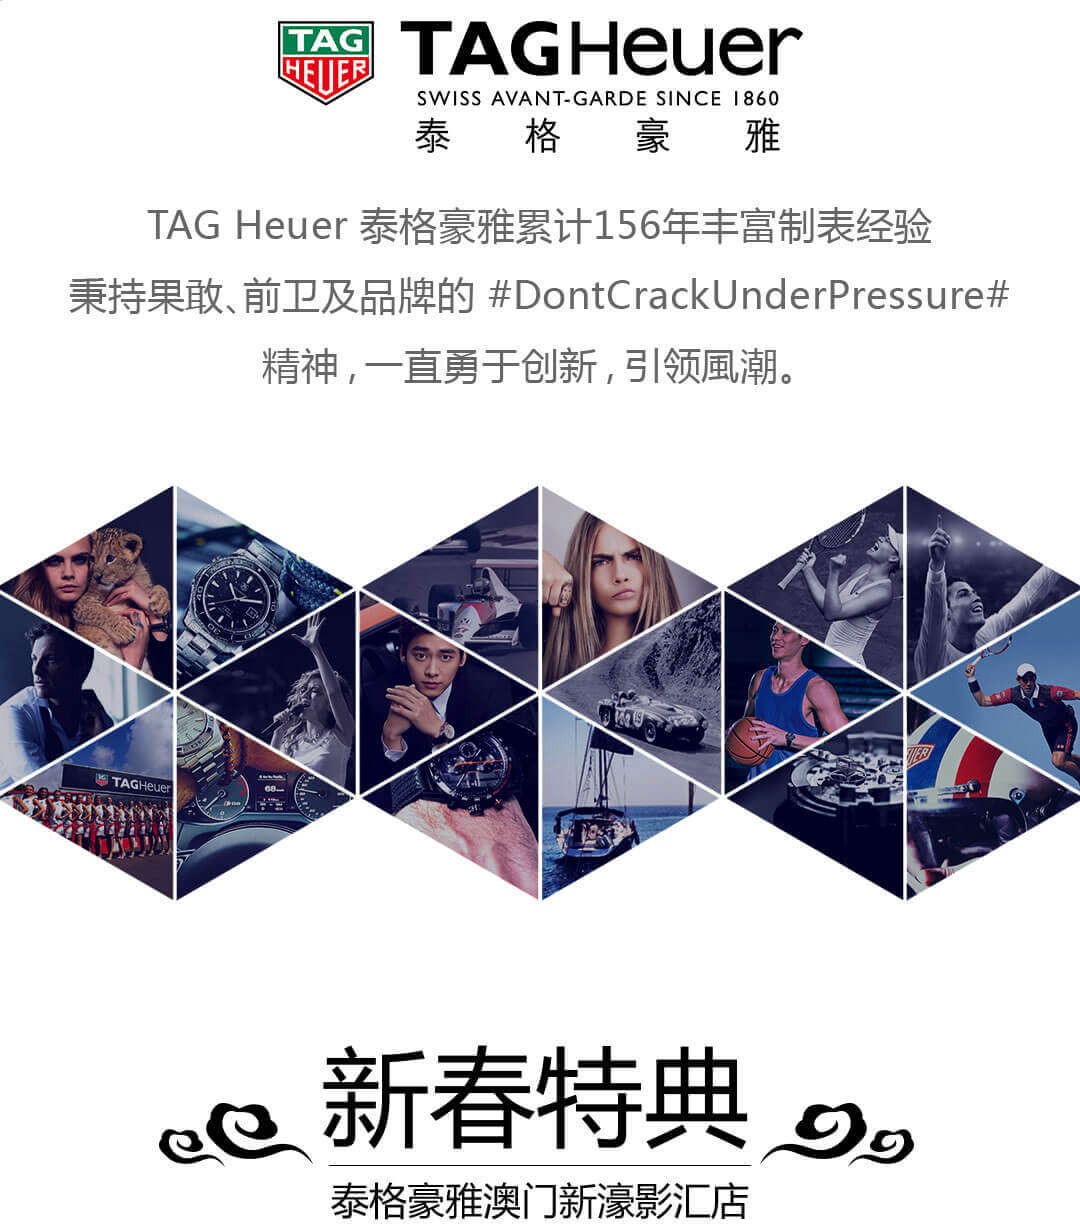
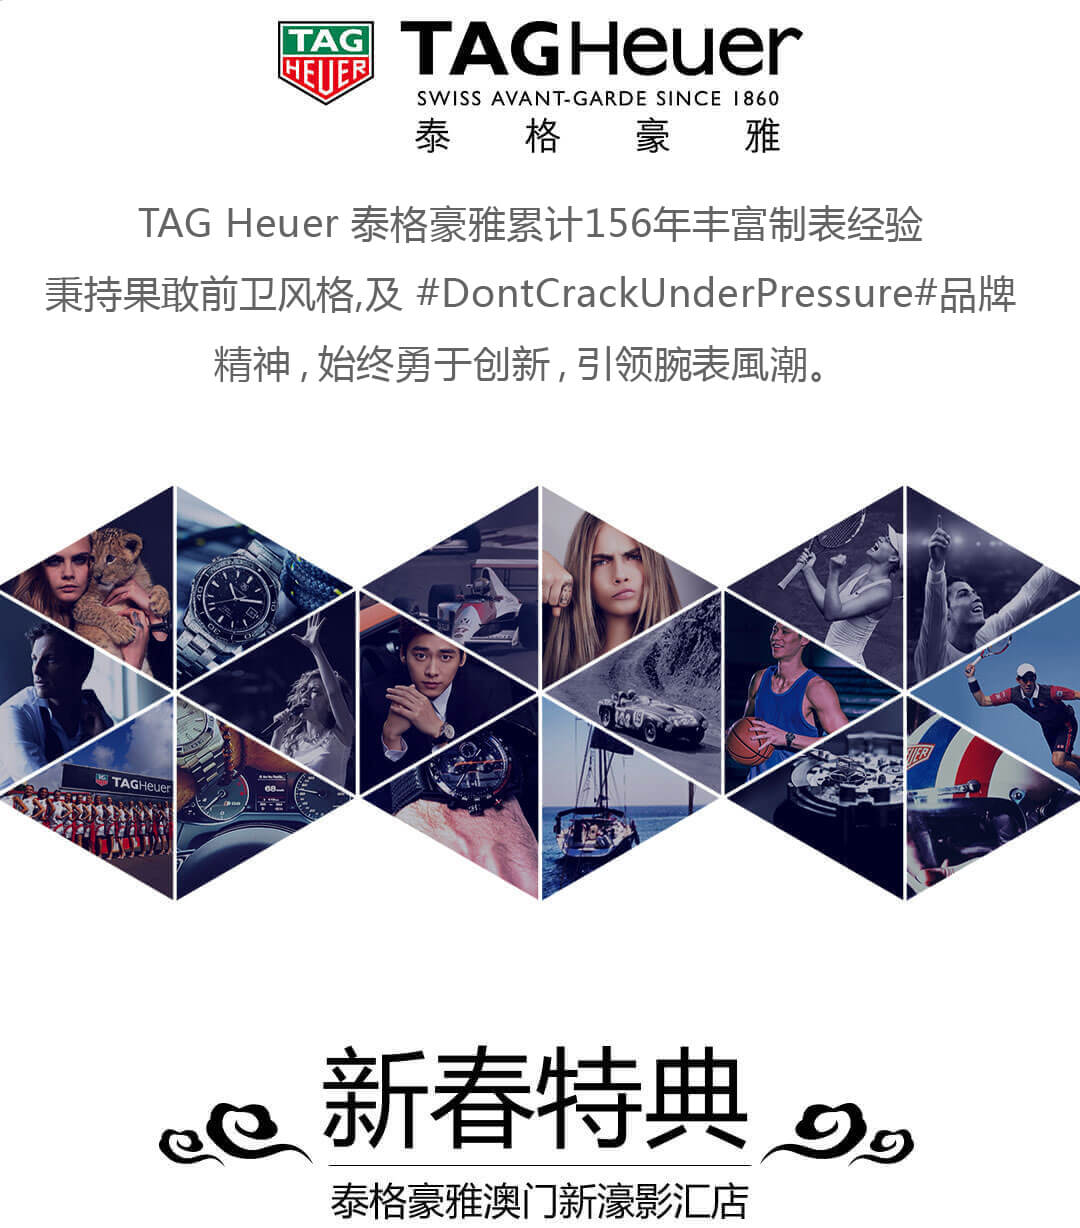
change the copy

Changed region(s): [[0.0306, 0.1547, 0.9472, 0.3094]]

diff --git a/css/screen.css b/css/screen.css
@@ -1,1 +1,1 @@
-a,abbr,acronym,address,applet,article,aside,audio,b,big,blockquote,body,canvas,caption,center,cite,code,dd,del,details,dfn,div,dl,dt,em,embed,fieldset,figcaption,figure,footer,form,h1,h2,h3,h4,h5,h6,header,hgroup,html,i,iframe,img,ins,kbd,label,legend,li,mark,menu,nav,object,ol,output,p,pre,q,ruby,s,samp,section,small,span,strike,strong,sub,summary,sup,table,tbody,td,tfoot,th,thead,time,tr,tt,u,ul,var,video{margin:0;padding:0;border:0;font:inherit;font-size:100%;vertical-align:baseline}html{line-height:1;font-size:50px}ol,ul{list-style:none}table{border-collapse:collapse;border-spacing:0}caption,td,th{text-align:left;font-weight:400;vertical-align:middle}blockquote,q{quotes:none}blockquote:after,blockquote:before,q:after,q:before{content:"";content:none}a img{border:none}#container .content .tg__wrap .gonext:after,#container .content .tg__wrap .gonext:before{border-left:.25rem solid transparent;border-right:.25rem solid transparent;border-top:.3rem solid #000;content:'';display:block}article,aside,details,figcaption,figure,footer,header,hgroup,main,menu,nav,section,summary{display:block}body{-webkit-backface-visibility:hidden}#container{width:100%;overflow:hidden}#container .content{width:100%;overflow-y:scroll}#container .content .tg__wrap{width:100%;position:relative}#container .content .tg__wrap .gonext{position:fixed;bottom:1.5rem;left:50%;width:10px;height:10px;-webkit-animation:arrowtop 2s linear infinite;-moz-animation:arrowtop 2s linear infinite;animation:arrowtop 2s linear infinite}#container .content .tg__wrap .gonext:before{left:0;position:absolute;top:0}#container .content .tg__wrap .gonext:after{left:0;position:absolute;top:.3rem}@keyframes arrowtop{0%{opacity:1;-webkit-transform:translateY(-5px);-moz-transform:translateY(-5px);-ms-transform:translateY(-5px);-o-transform:translateY(-5px);transform:translateY(-5px)}50%{opacity:.1;-webkit-transform:translateY(5px);-moz-transform:translateY(5px);-ms-transform:translateY(5px);-o-transform:translateY(5px);transform:translateY(5px)}100%{opacity:0;-webkit-transform:translateY(-5px);-moz-transform:translateY(-5px);-ms-transform:translateY(-5px);-o-transform:translateY(-5px);transform:translateY(-5px)}}#container .content .tg__wrap.tg_item2{width:100%}#container .content .tg__wrap.tg_item2 ul{width:100%;height:100%;position:absolute;top:0;left:0}#container .content .tg__wrap.tg_item2 ul li{width:67.40741%;position:absolute;top:4%;left:10%}#container .content .tg__wrap.tg_item2 ul li .sun-img,#container .content .tg__wrap.tg_item2 ul li .sun-title{width:100%;position:absolute;top:0;left:0}#container .content .tg__wrap.tg_item2 ul li:nth-child(2){width:74.81481%;position:absolute;top:28%;left:auto;right:10%}#container .content .tg__wrap.tg_item2 ul li:nth-child(3){width:80.46296%;position:absolute;top:52%;left:10%}#container .content .tg__wrap.tg_item2 ul li:nth-child(4){width:79.72222%;position:absolute;top:75%;left:auto;right:10%}#container img{display:block;width:100%}.tg_item2{height:19.38rem}.tg_item3{height:27.89rem}.tg_item4{height:12.28rem}.tg_item5{height:30.39rem}.tg_item5 .watch{position:absolute;top:5%;left:0;z-index:2;width:55%}.tg_item5 .football{position:absolute;bottom:25%;right:0;width:93.33333%}.tg_item6{background:#000;height:10.31rem;margin-top:-2px}.tg_item6 .thanks{position:relative;z-index:-1;opacity:0;width:7.74rem;margin:0 auto;-moz-transition:opacity 1s;-o-transition:opacity 1s;-webkit-transition:opacity 1s;transition:opacity 1s}.tg_item6 #form-address{z-index:2;-moz-transition:opacity 1s;-o-transition:opacity 1s;-webkit-transition:opacity 1s;transition:opacity 1s}.tg_item6.done #form-address{opacity:0;z-index:-2}.tg_item6.done .thanks{opacity:1;display:block;z-index:2}#form-address{position:absolute;top:1rem;left:50%;-webkit-transform:translate(-50%);-moz-transform:translate(-50%);-ms-transform:translate(-50%);-o-transform:translate(-50%);transform:translate(-50%);width:79.62963%}.input-box{padding-bottom:.6rem;position:relative}.input-box .error{position:absolute;bottom:.1rem;color:rgba(252,80,90,.6);font-size:.34rem}.input-box input[type=text],.input-box input[type=number],.input-box select{font-size:.44rem;color:#fff;border:1px solid #e6e6e6;padding:.3rem;background:0 0;-webkit-appearance:none;border-radius:0;-ms-border-radius:0;-moz-border-radius:0;-o-border-radius:0;-webkit-border-radius:0;width:100%;box-sizing:border-box;text-align:left;text-indent:1rem}.input-box select{color:rgba(255,255,255,.3)}.input-box select.hasvalue{color:#fff}.input-box select.input-province{float:left;width:46%}.input-box select.input-city{float:right;width:46%}.input-box label{position:absolute;width:.53rem;height:.53rem;background:url(../img/icon-sprite.png) no-repeat;background-size:100%;top:.4rem;left:.4rem}.input-box.input-box-name label{background-position:0 0}.input-box.input-box-phone label{background-position:0 50%}.input-box.input-box-city label,.input-box.input-box-province label{background-position:0 100%}.input-box.input-box-province{clear:both}.input-box.input-box-province label:after{content:'';display:block;width:0;height:0;position:absolute;right:-2.7rem;top:.2rem;border-left:.15rem solid transparent;border-right:.15rem solid transparent;border-top:.2rem solid #fff}.input-box.input-box-province .label-city{left:auto;right:36%}.input-box.input-box-province:after{content:'';display:block;width:0;height:0;clear:both}.btn-submit{width:8.71rem;height:1.62rem;margin-top:.5rem}.show{display:block!important}.hide{display:hidden!important}::-webkit-input-placeholder{color:rgba(255,255,255,.3)}::-moz-placeholder{color:rgba(255,255,255,.3)}:-ms-input-placeholder{color:rgba(255,255,255,.3)}:-moz-placeholder{color:rgba(255,255,255,.3)}.football,.sun-img,.sun-title,.watch{opacity:0;-webkit-transform:translateY(50px);-moz-transform:translateY(50px);-ms-transform:translateY(50px);-o-transform:translateY(50px);transform:translateY(50px)}.football,.sun-img,.watch{-moz-transition:-moz-transform .5s,opacity .5s;-o-transition:-o-transform .5s,opacity .5s;-webkit-transition:-webkit-transform .5s,opacity .5s;transition:transform .5s,opacity .5s}.sun-title{-moz-transition:-moz-transform .5s .2s,opacity .5s .2s;-o-transition:-o-transform .5s .2s,opacity .5s .2s;-webkit-transition:-webkit-transform .5s,opacity .5s;-webkit-transition-delay:.2s,.2s;transition:transform .5s .2s,opacity .5s .2s}.animated .sun-img,.animated .sun-title,.animated.football,.animated.watch{opacity:1;-webkit-transform:translateY(-10px);-moz-transform:translateY(-10px);-ms-transform:translateY(-10px);-o-transform:translateY(-10px);transform:translateY(-10px)}
+a,abbr,acronym,address,applet,article,aside,audio,b,big,blockquote,body,canvas,caption,center,cite,code,dd,del,details,dfn,div,dl,dt,em,embed,fieldset,figcaption,figure,footer,form,h1,h2,h3,h4,h5,h6,header,hgroup,html,i,iframe,img,ins,kbd,label,legend,li,mark,menu,nav,object,ol,output,p,pre,q,ruby,s,samp,section,small,span,strike,strong,sub,summary,sup,table,tbody,td,tfoot,th,thead,time,tr,tt,u,ul,var,video{margin:0;padding:0;border:0;font:inherit;font-size:100%;vertical-align:baseline}html{line-height:1;font-size:50px}ol,ul{list-style:none}table{border-collapse:collapse;border-spacing:0}caption,td,th{text-align:left;font-weight:400;vertical-align:middle}blockquote,q{quotes:none}blockquote:after,blockquote:before,q:after,q:before{content:"";content:none}a img{border:none}#container .content .tg__wrap .gonext:after,#container .content .tg__wrap .gonext:before{border-left:.25rem solid transparent;border-right:.25rem solid transparent;border-top:.3rem solid #000;content:'';display:block}article,aside,details,figcaption,figure,footer,header,hgroup,main,menu,nav,section,summary{display:block}body{-webkit-backface-visibility:hidden}#container{width:100%;overflow:hidden}#container .content{width:100%;overflow-y:scroll}#container .content .tg__wrap{width:100%;position:relative}#container .content .tg__wrap .gonext{position:fixed;bottom:1.5rem;left:50%;width:10px;height:10px;-webkit-animation:arrowtop 2s linear infinite;-moz-animation:arrowtop 2s linear infinite;animation:arrowtop 2s linear infinite}#container .content .tg__wrap .gonext:before{left:0;position:absolute;top:0}#container .content .tg__wrap .gonext:after{left:0;position:absolute;top:.3rem}@-webkit-keyframes arrowtop{0%{opacity:1;-webkit-transform:translateY(-5px)}50%{opacity:.1;-webkit-transform:translateY(5px)}100%{opacity:0;-webkit-transform:translateY(-5px)}}@-moz-keyframes arrowtop{0%{opacity:1;-moz-transform:translateY(-5px)}50%{opacity:.1;-moz-transform:translateY(5px)}100%{opacity:0;-moz-transform:translateY(-5px)}}@-o-keyframes arrowtop{0%{opacity:1;-o-transform:translateY(-5px)}50%{opacity:.1;-o-transform:translateY(5px)}100%{opacity:0;-o-transform:translateY(-5px)}}@keyframes arrowtop{0%{opacity:1;-webkit-transform:translateY(-5px);transform:translateY(-5px)}50%{opacity:.1;-webkit-transform:translateY(5px);transform:translateY(5px)}100%{opacity:0;-webkit-transform:translateY(-5px);transform:translateY(-5px)}}#container .content .tg__wrap.tg_item2{width:100%}#container .content .tg__wrap.tg_item2 ul{width:100%;height:100%;position:absolute;top:0;left:0}#container .content .tg__wrap.tg_item2 ul li{width:67.40741%;position:absolute;top:4%;left:10%}#container .content .tg__wrap.tg_item2 ul li .sun-img,#container .content .tg__wrap.tg_item2 ul li .sun-title{width:100%;position:absolute;top:0;left:0}#container .content .tg__wrap.tg_item2 ul li:nth-child(2){width:74.81481%;position:absolute;top:28%;left:auto;right:10%}#container .content .tg__wrap.tg_item2 ul li:nth-child(3){width:80.46296%;position:absolute;top:52%;left:10%}#container .content .tg__wrap.tg_item2 ul li:nth-child(4){width:79.72222%;position:absolute;top:75%;left:auto;right:10%}#container img{display:block;width:100%}.tg_item2{height:19.38rem}.tg_item3{height:27.89rem}.tg_item4{height:12.28rem}.tg_item5{height:30.39rem}.tg_item5 .watch{position:absolute;top:5%;left:0;z-index:2;width:55%}.tg_item5 .football{position:absolute;bottom:25%;right:0;width:93.33333%}.tg_item6{background:#000;height:10.31rem;margin-top:-2px}.tg_item6 .thanks{position:relative;z-index:-1;opacity:0;width:7.74rem;margin:0 auto;-moz-transition:opacity 1s;-o-transition:opacity 1s;-webkit-transition:opacity 1s;transition:opacity 1s}.tg_item6 #form-address{z-index:2;-moz-transition:opacity 1s;-o-transition:opacity 1s;-webkit-transition:opacity 1s;transition:opacity 1s}.tg_item6.done #form-address{opacity:0;z-index:-2}.tg_item6.done .thanks{opacity:1;display:block;z-index:2}#form-address{position:absolute;top:1rem;left:50%;-webkit-transform:translate(-50%);-moz-transform:translate(-50%);-ms-transform:translate(-50%);-o-transform:translate(-50%);transform:translate(-50%);width:79.62963%}.input-box{padding-bottom:.6rem;position:relative}.input-box .error{position:absolute;bottom:.1rem;color:rgba(252,80,90,.6);font-size:.34rem}.input-box input[type=text],.input-box input[type=number],.input-box select{font-size:.44rem;color:#fff;border:1px solid #e6e6e6;padding:.3rem;background:0 0;-webkit-appearance:none;border-radius:0;-ms-border-radius:0;-moz-border-radius:0;-o-border-radius:0;-webkit-border-radius:0;width:100%;box-sizing:border-box;text-align:left;text-indent:1rem}.input-box select{color:rgba(255,255,255,.3)}.input-box select.hasvalue{color:#fff}.input-box select.input-province{float:left;width:46%}.input-box select.input-city{float:right;width:46%}.input-box label{position:absolute;width:.53rem;height:.53rem;background:url(../img/icon-sprite.png) no-repeat;background-size:100%;top:.4rem;left:.4rem}.input-box.input-box-name label{background-position:0 0}.input-box.input-box-phone label{background-position:0 50%}.input-box.input-box-city label,.input-box.input-box-province label{background-position:0 100%}.input-box.input-box-province{clear:both}.input-box.input-box-province label:after{content:'';display:block;width:0;height:0;position:absolute;right:-2.7rem;top:.2rem;border-left:.15rem solid transparent;border-right:.15rem solid transparent;border-top:.2rem solid #fff}.input-box.input-box-province .label-city{left:auto;right:36%}.input-box.input-box-province:after{content:'';display:block;width:0;height:0;clear:both}.btn-submit{width:8.71rem;height:1.62rem;margin-top:.5rem}.show{display:block!important}.hide{display:hidden!important}::-webkit-input-placeholder{color:rgba(255,255,255,.3)}::-moz-placeholder{color:rgba(255,255,255,.3)}:-ms-input-placeholder{color:rgba(255,255,255,.3)}:-moz-placeholder{color:rgba(255,255,255,.3)}.football,.sun-img,.sun-title,.watch{opacity:0;-webkit-transform:translateY(50px);-moz-transform:translateY(50px);-ms-transform:translateY(50px);-o-transform:translateY(50px);transform:translateY(50px)}.football,.sun-img,.watch{-moz-transition:-moz-transform .5s,opacity .5s;-o-transition:-o-transform .5s,opacity .5s;-webkit-transition:-webkit-transform .5s,opacity .5s;transition:transform .5s,opacity .5s}.sun-title{-moz-transition:-moz-transform .5s .2s,opacity .5s .2s;-o-transition:-o-transform .5s .2s,opacity .5s .2s;-webkit-transition:-webkit-transform .5s,opacity .5s;-webkit-transition-delay:.2s,.2s;transition:transform .5s .2s,opacity .5s .2s}.animated .sun-img,.animated .sun-title,.animated.football,.animated.watch{opacity:1;-webkit-transform:translateY(-10px);-moz-transform:translateY(-10px);-ms-transform:translateY(-10px);-o-transform:translateY(-10px);transform:translateY(-10px)}

diff --git a/sass/screen.scss b/sass/screen.scss
@@ -38,7 +38,7 @@
           position: absolute;
           top: 0.3rem;
         }
-        @keyframes arrowtop {
+        @include keyframes(arrowtop){
           0%{
             opacity: 1;
             @include transform(translateY(-5px));
@@ -52,7 +52,6 @@
             @include transform(translateY(-5px));
           }
         }
-        
       }
       &.tg_item2{
         width: 100%;
